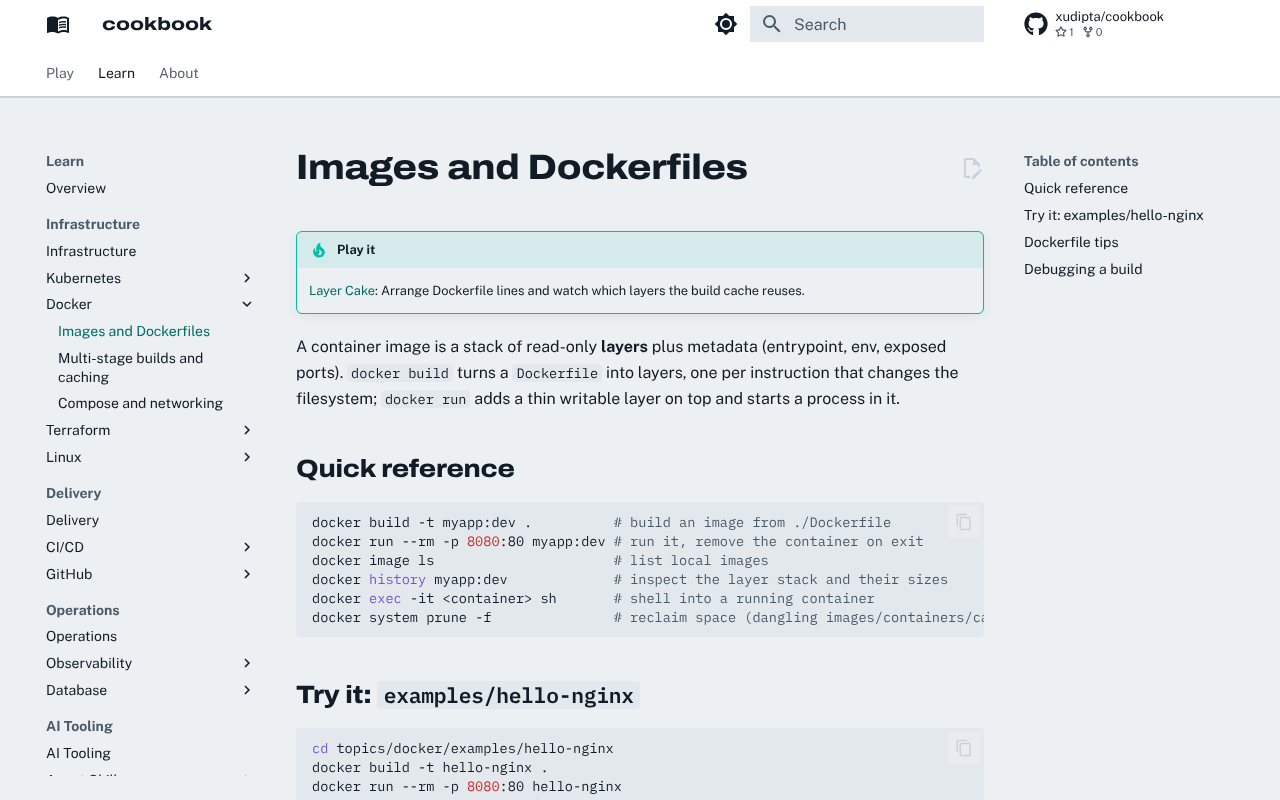
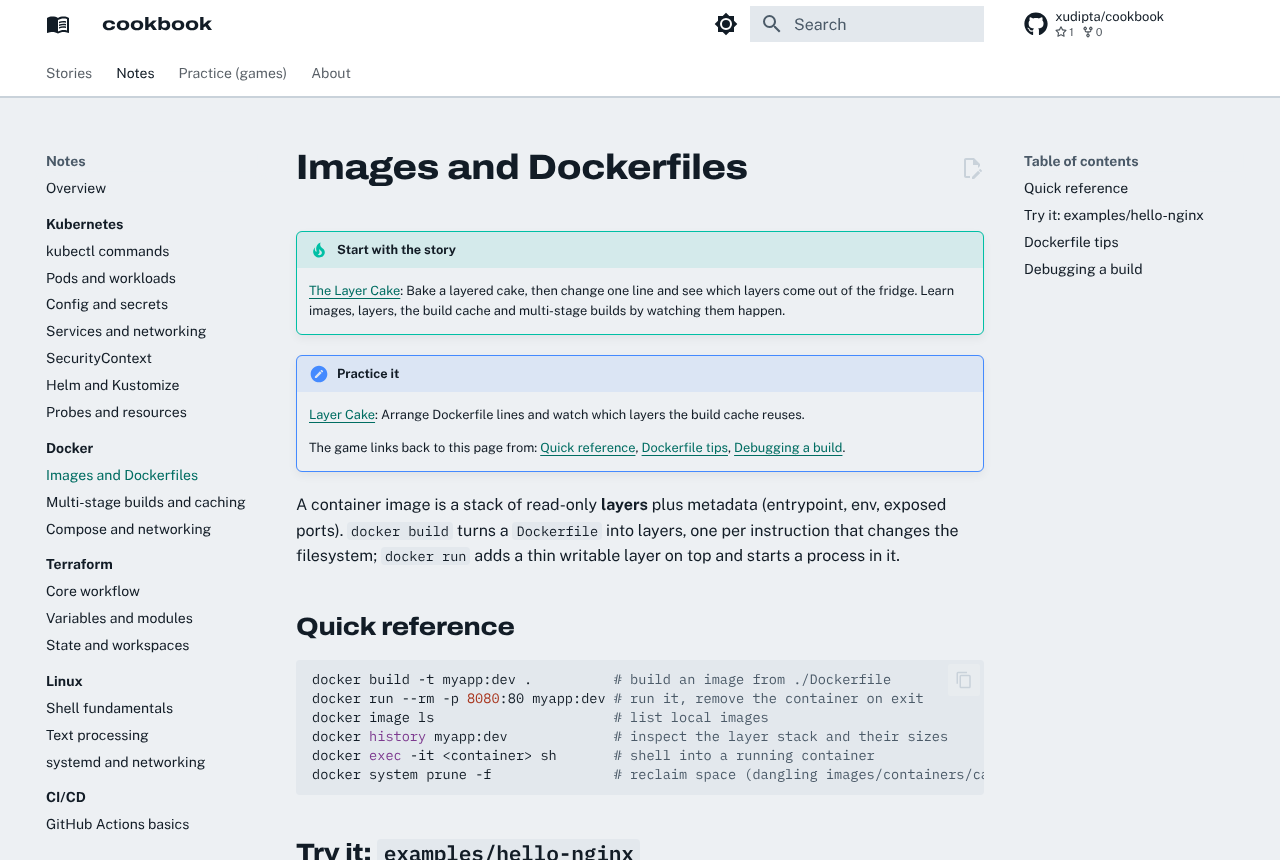
README: stories-first copy and regenerated screenshots (scripts/screenshots.cjs) (#161)

diff --git a/README.md b/README.md
@@ -11,15 +11,29 @@ every example is **checked in CI** on every change: linted, schema-validated, or
 built/applied/deployed against a real target. Nothing here is stale by construction —
 if an example stops working, the badge above goes red.
 
-🎮 **Play the games and read the notes: <https://xudipta.github.io/cookbook/>**
+🎮 **Start with a story, then read the notes: <https://xudipta.github.io/cookbook/>**
 
-The home page: a playable incident, and a board with one game per topic.
+Each topic is taught first as a short **story** you play with taps on your phone (a pizza kitchen
+for Kubernetes, a library for databases, a night ward for observability): you see the idea happen,
+and only then get the real name and the real command. The **notes** hold the full reference by
+topic, and the browser **games** are practice, with a real prompt, clocks and scores, once a story
+has made the idea click.
 
-[![The games-first home page](docs/images/docs-home.png)](https://xudipta.github.io/cookbook/)
+The home page leads with the stories, then the notes by topic, then the practice games:
 
-A note page. Topics with a game link to it from the top of every page:
+[![The stories-first home page](docs/images/docs-home.png)](https://xudipta.github.io/cookbook/)
 
-[![A note page with its Play banner](docs/images/docs-topic-page.png)](https://xudipta.github.io/cookbook/topics/docker/notes/01-images-and-dockerfiles/)
+A story on a phone: tap a cook to send them home, and watch Kubernetes replace them. Next to it, a
+practice game on a phone, with the pager and the terminal on the first screen:
+
+<p>
+  <a href="https://xudipta.github.io/cookbook/docs/stories/kubernetes/"><img src="docs/images/story-kubernetes.png" alt="The Kubernetes story on a phone: three cooks in a kitchen, one of them to be sent home, and Maya the owner asking you to tap a cook." width="260"></a>
+  <a href="https://xudipta.github.io/cookbook/docs/games/linux/"><img src="docs/images/docs-game.png" alt="The Linux practice game on a phone: a pager message about a failed deploy, the server status and a terminal." width="260"></a>
+</p>
+
+A note page. Topics with a story or a practice game link to them from the top of every page:
+
+[![A note page with its story and practice banners](docs/images/docs-topic-page.png)](https://xudipta.github.io/cookbook/topics/docker/notes/01-images-and-dockerfiles/)
 
 ## About this project
 
@@ -97,8 +111,9 @@ topics/<topic>/
   notes/NN-*.md          # prose notes, numbered in reading order
   examples/<name>/       # runnable files (manifests, Dockerfiles, scripts, .tf, ...)
 docs/<category>.md       # a landing page for a group of topics (Infrastructure, Delivery, ...) in the docs site nav
-docs/games/<game>/       # a browser game for the site's Play section (see CONTRIBUTING.md)
-docs/games/games.json    # the games on the home page's board
+docs/stories/<topic>/    # a topic taught as a tap-only story (see CONTRIBUTING.md, "Story mode")
+docs/games/<game>/       # a browser game for the site's Practice section (see CONTRIBUTING.md)
+docs/games/games.json    # the stories and games on the home page's board
 docs/site/               # the home page and the shared design tokens
 ```
 

diff --git a/CONTRIBUTING.md b/CONTRIBUTING.md
@@ -324,11 +324,18 @@ NODE_PATH=<dir containing node_modules/playwright> SITE_URL=http://localhost:800
 
 ## Updating the README screenshots
 
-`docs/images/docs-home.png` and `docs/images/docs-topic-page.png` are real
-screenshots of the built docs site. If a theme change in `mkdocs.yml` (palette, nav
-style, logo) would make them look stale, regenerate them from a local build
-(`make docs-serve`, then screenshot the home page and a topic page at a ~1400px-wide
-viewport) and replace the files in the same PR as the theme change.
+The four images under `docs/images/` (`docs-home.png`, `docs-topic-page.png`, `story-kubernetes.png`, which is
+also the home page's hero image, and `docs-game.png`) are produced by `scripts/screenshots.cjs` from the built
+site, so nothing is edited by hand:
+
+```bash
+make screenshots              # builds the site, serves it, regenerates the images (needs playwright)
+node scripts/screenshots.cjs --check   # no browser: the images exist and are not older than the home page
+```
+
+Refresh them in the same PR whenever the home page (`docs/site/`), the theme in `mkdocs.yml`, a story's first
+screen or the practice-game layout changes enough to make them look stale. There is no pixel comparison in CI
+(it would be flaky); the `--check` mode is a quick local reminder.
 
 ## Changelog
 
